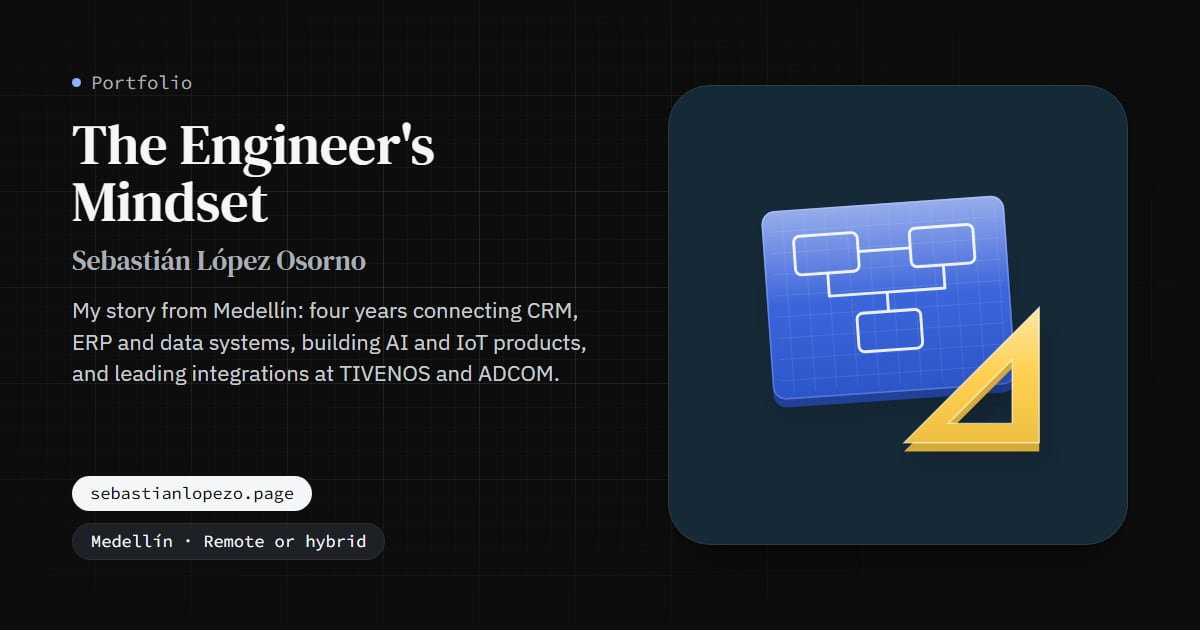
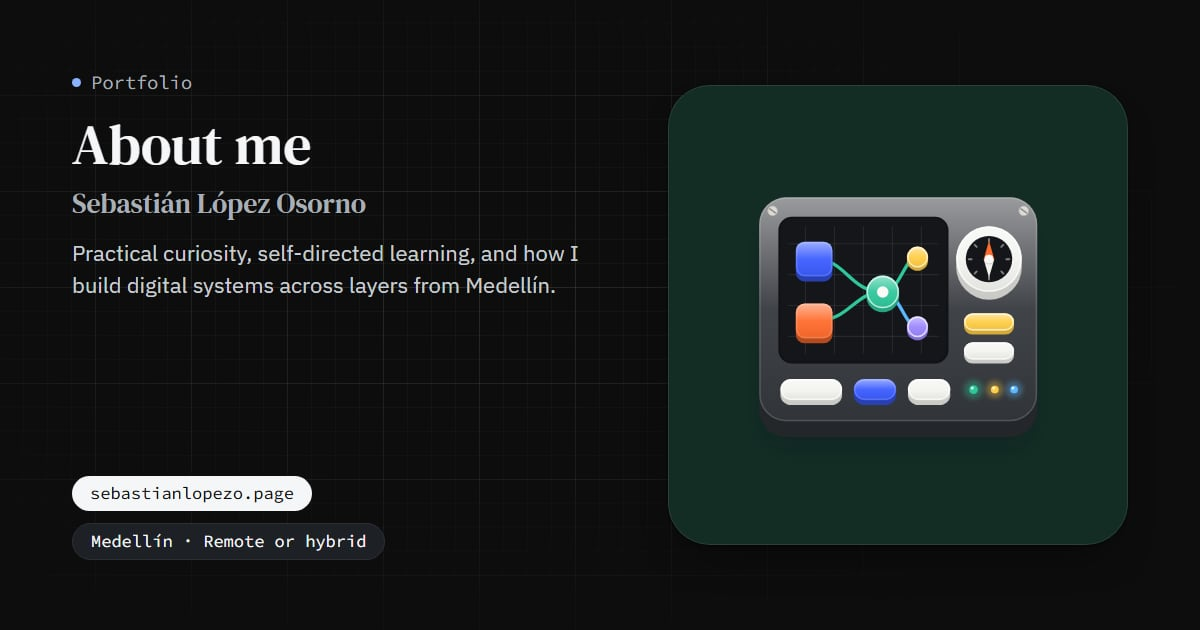
Add drafting-slate illustration for the dedicated about page

Changed region(s): [[0.6167, 0.3016, 0.8942, 0.7238], [0.0617, 0.3921, 0.4933, 0.6032], [0.0617, 0.181, 0.37, 0.3619]]

diff --git a/src/content/shared/page-art.ts b/src/content/shared/page-art.ts
@@ -8,6 +8,9 @@ export interface Art {
     tile: Tile;
 }
 
+/** The dedicated About page object, in public/, and the tile it sits on. */
+export const ABOUT_ART: Art = {file: "/illustrations/about.svg", tile: "mint"};
+
 /** Each service's object, in public/, and the tile it sits on. */
 export const SERVICE_ART: Record<ServiceId, Art> = {
     integration: {file: "/illustrations/services/integration.svg", tile: "sky"},
